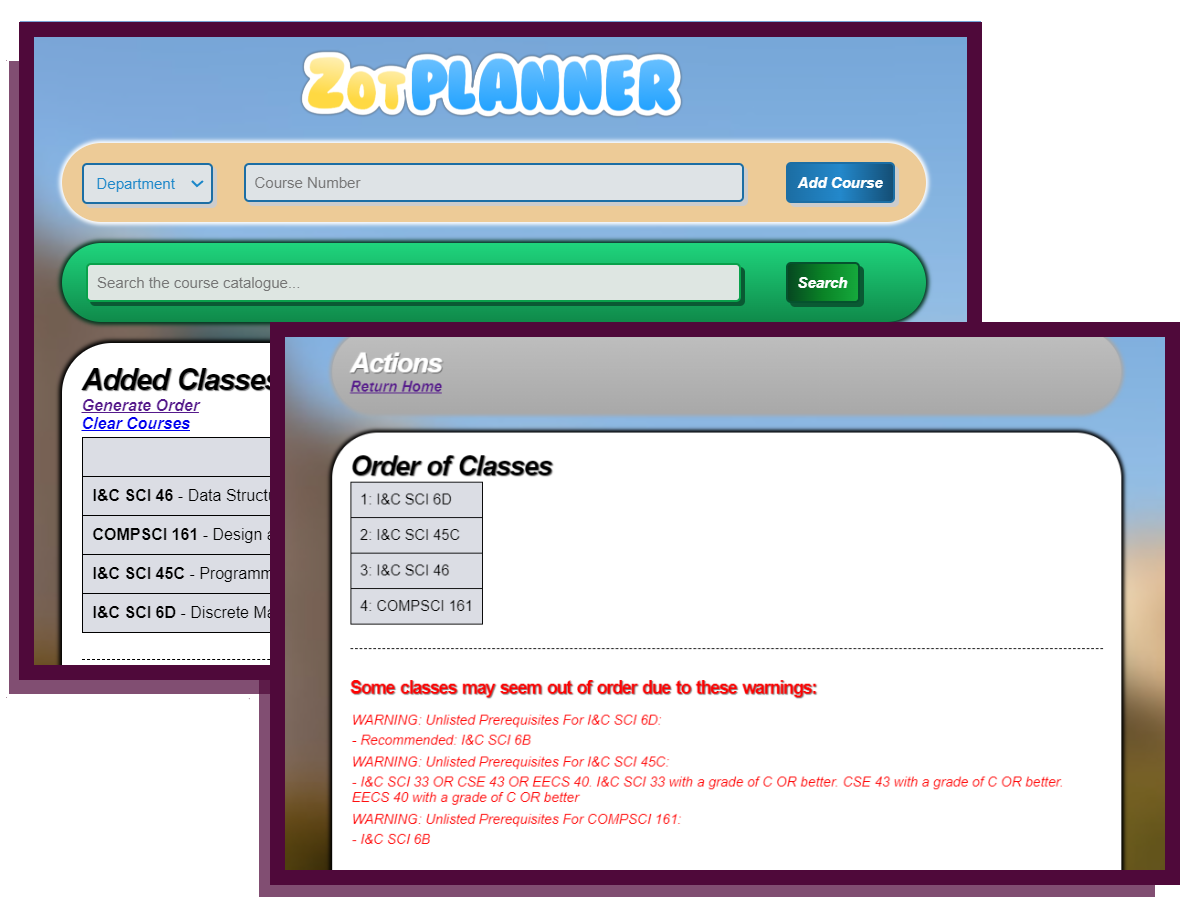
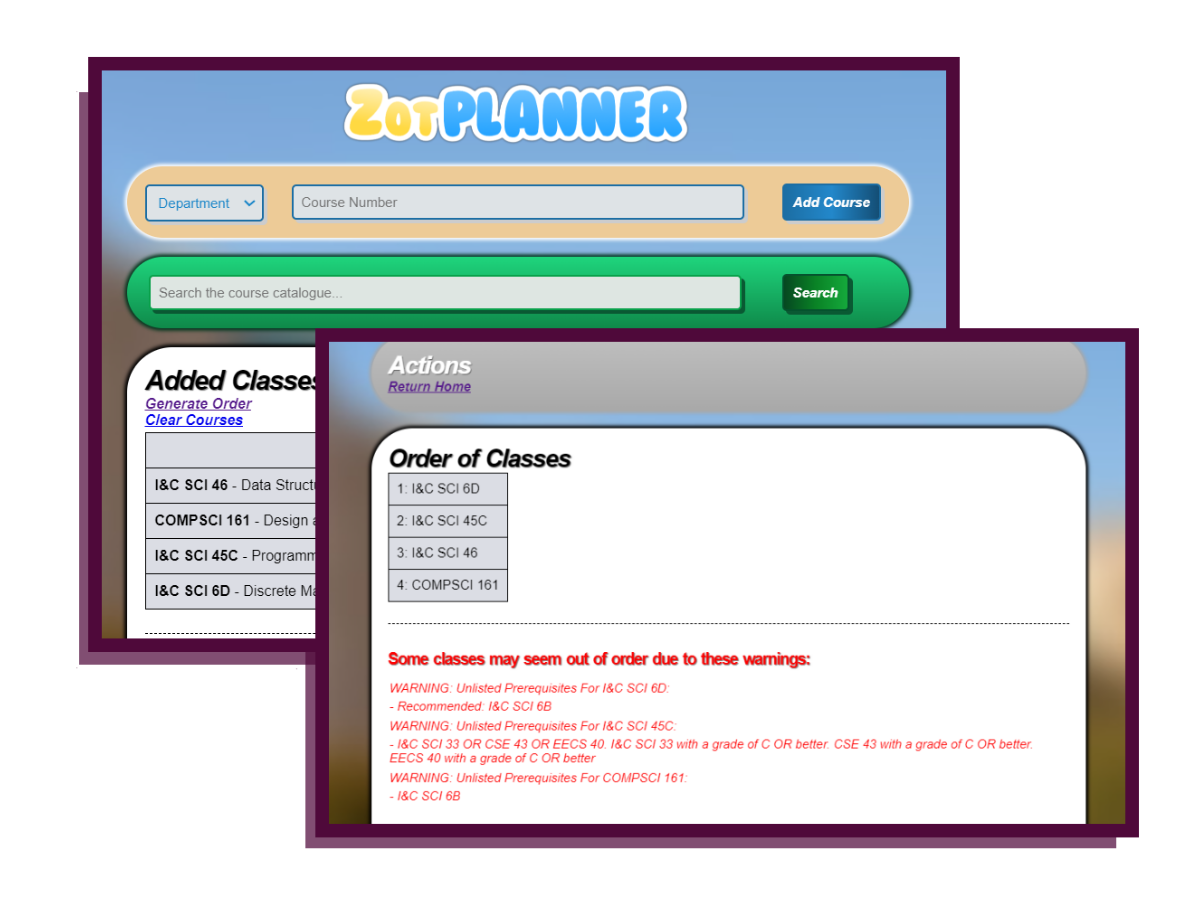
Tweaked photo margins

diff --git a/src/App.js b/src/App.js
@@ -47,7 +47,7 @@ function App() {
   if (current === 2) {
     return (
       <div className="App">
-          <Project title="QuickYelp - AI Chatbot"
+          <Project title="QuickYelp"
             name="quickyelp"
             github="https://github.com/julian-z/quickyelp"
             website="https://www.quickyelp.com"
@@ -69,7 +69,7 @@ function App() {
   if (current === 3) {
     return (
       <div className="App">
-          <Project title="ZotPlanner - UCI Prerequisite Verifier"
+          <Project title="ZotPlanner"
             name="zotplanner"
             github="https://github.com/julian-z/zotplanner"
             website="https://zotplanner.pythonanywhere.com/"
@@ -91,7 +91,7 @@ function App() {
   if (current === 4) {
     return (
       <div className="App">
-          <Project title="Minesweeper Lab - Puzzle Game Trainer"
+          <Project title="Minesweeper Lab"
             name="minesweeperlab"
             github="https://github.com/julian-z/minesweeper-lab"
             website="https://github.com/julian-z/minesweeper-lab"
